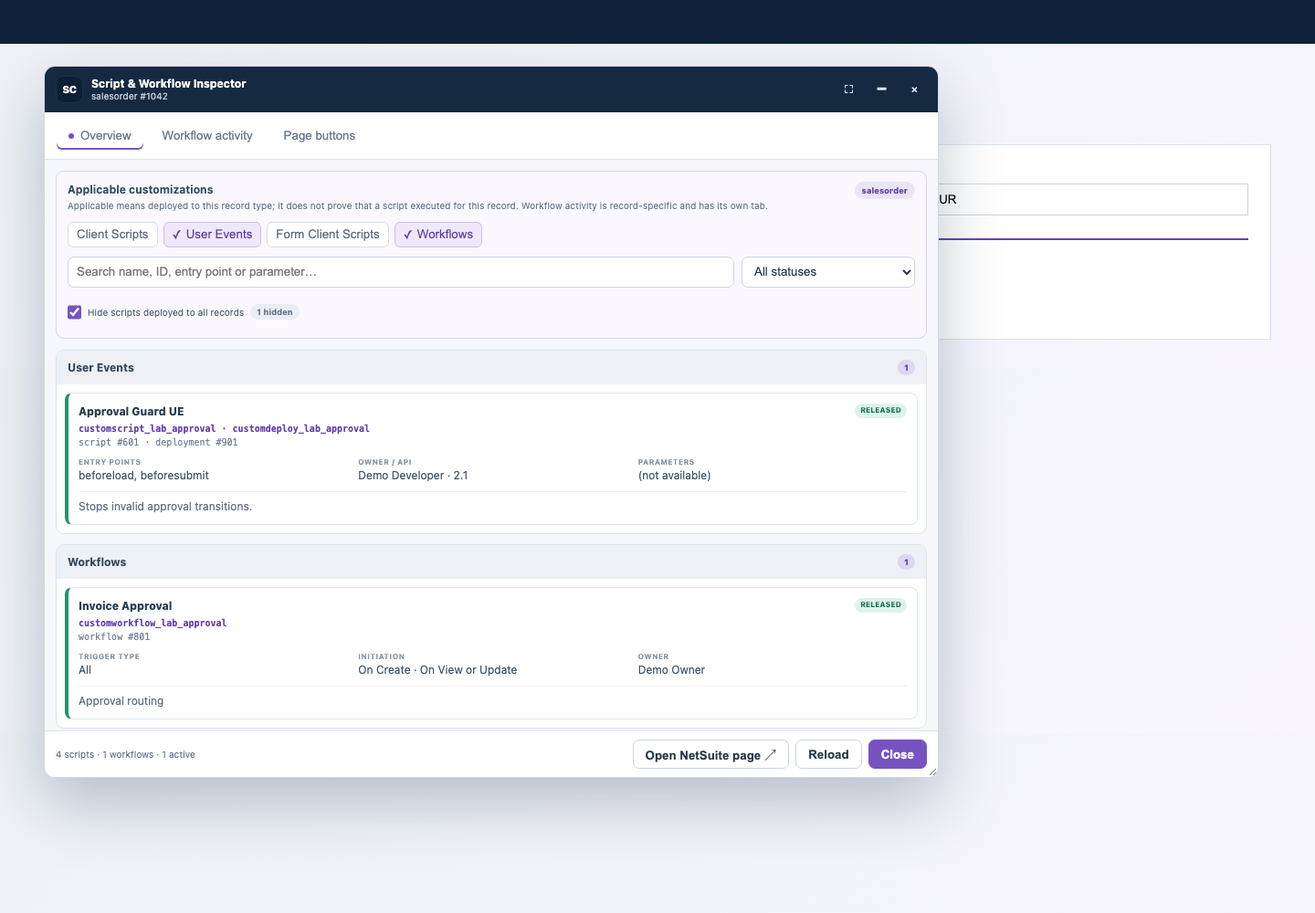
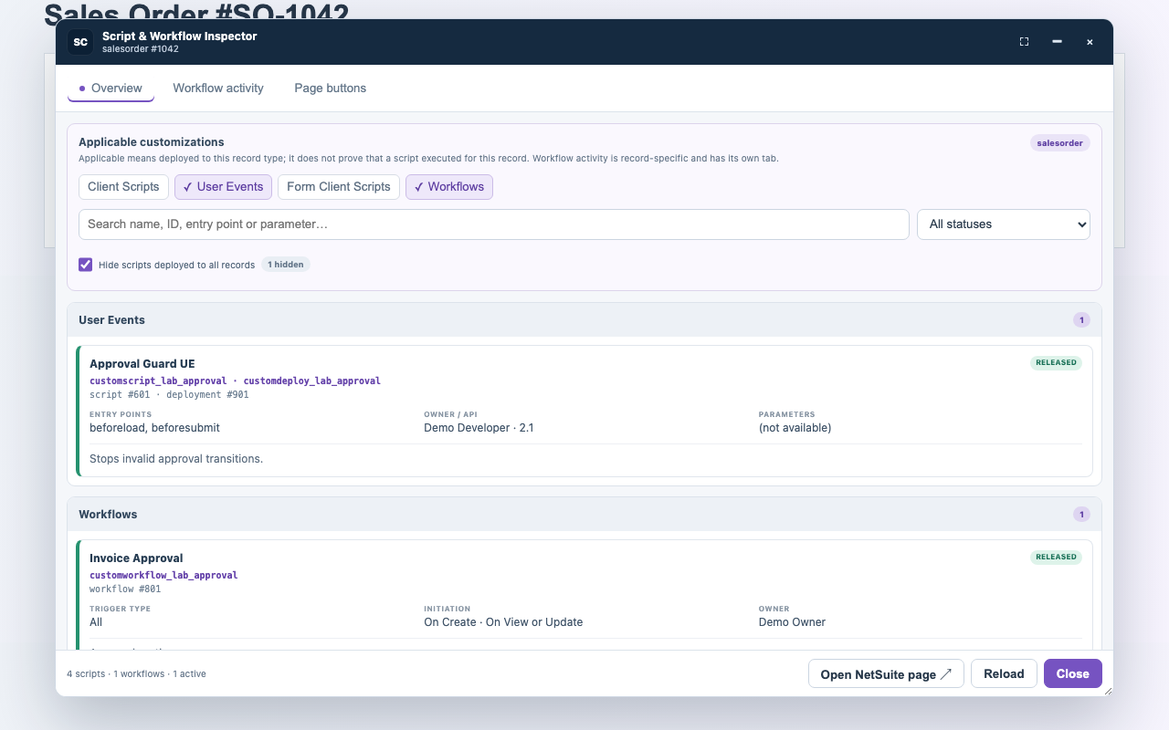
release: prepare website and Store assets for SuiteCraft 1.0.0

diff --git a/changelog.html b/changelog.html
@@ -3,7 +3,7 @@
 <head>
 	<meta charset="utf-8">
 	<meta name="viewport" content="width=device-width, initial-scale=1">
-	<meta name="description" content="Browse SuiteCraft release notes, current beta improvements and the complete version history.">
+	<meta name="description" content="Browse SuiteCraft release notes, current improvements and the complete version history.">
 	<meta name="theme-color" content="#081c35">
 	<meta property="og:type" content="website">
 	<meta property="og:title" content="Release history · SuiteCraft">
@@ -28,13 +28,14 @@
 			<a href="index.html#changelog">Changelog</a>
 			<a href="index.html#about">About</a>
 			<a href="privacy.html">Privacy <span aria-hidden="true">↗</span></a>
-			<a class="nav-cta" href="index.html#beta">Request beta access <span aria-hidden="true">→</span></a>
+			<a class="nav-cta" href="https://chromewebstore.google.com/detail/suitecraft-for-netsuite/hpcgajocaokahoibhmiofdjdjnnielka" target="_blank" rel="noopener noreferrer">Install extension <span aria-hidden="true">↗</span></a>
 		</nav>
 	</header>
 	<main class="history-main" id="main">
-		<div class="history-heading"><a class="history-back" href="index.html#changelog">← Back to SuiteCraft</a><p class="eyebrow">PRODUCT CHANGELOG · BETA CHANNEL</p><h1>Release history.</h1><p>New features, improvements and fixes in every SuiteCraft release. The current version is expanded below; choose an earlier version to see its details.</p></div>
+		<div class="history-heading"><a class="history-back" href="index.html#changelog">← Back to SuiteCraft</a><p class="eyebrow">PRODUCT CHANGELOG</p><h1>Release history.</h1><p>New features, improvements and fixes in every SuiteCraft release. Version 1.0.0 is prepared for Chrome Web Store submission. Its notes are expanded below; choose an earlier version to see its details.</p></div>
 		<div class="release-list">
-<details class="release-entry current-release" id="v0-4-1" open><summary><span class="release-summary-main"><span class="release-status">CURRENT RELEASE</span><span class="release-title">0.4.1</span><span class="release-teaser">SuiteCraft Search, clearer Change Plans and faster sync modes</span></span><span class="release-summary-side"><time datetime="2026-10-08">October 8, 2026</time><i aria-hidden="true"></i></span></summary><div class="release-body"><div class="release-columns"><section class="release-section new"><h3>New</h3><ul><li>SuiteCraft Search brings Menu, This page and Workspace together in All, with separate scopes and filters for Favorites, Catalogue and List values.</li><li>Menu results show matching destinations with their full navigation path and type. Current-page fields can be found by label or field ID, then located on the form or copied by ID. Empty All and Menu searches show no result tree.</li></ul></section><section class="release-section improved"><h3>Improved</h3><ul><li>Go to record remains directly beside the search input and carries the entered ID into the record finder. All shows up to three results per source, with Show all opening the relevant scope.</li><li>Change Plans have clearer summaries, progress and action menus, expandable descriptions and notes, and an Example item status for test cases and supporting references.</li><li>Synchronization offers Default, Quick, Quickest and experimental Turbo modes, with bounded parallel requests, retry backoff and session timing comparisons.</li></ul></section><section class="release-section fixed"><h3>Fixed</h3><ul><li>Saved Search links open the definition consistently from Quick find record, Favorites and Change Plans while preserving existing favorite and plan-item identities.</li><li>Parallel synchronization retains deterministic snapshot order and never publishes an incomplete list after failed requests, cancellation or an account or role change.</li></ul></section></div></div></details>
+<details class="release-entry current-release" id="v1-0-0" open><summary><span class="release-summary-main"><span class="release-status">PREPARED RELEASE</span><span class="release-title">1.0.0</span><span class="release-teaser">First official release, safer local data and more reliable synchronization</span></span><span class="release-summary-side"><time datetime="2026-10-15">October 15, 2026</time><i aria-hidden="true"></i></span></summary><div class="release-body"><div class="release-columns"><section class="release-section new"><h3>New</h3><ul><li>First official SuiteCraft release: record inspection, customization search, local snapshots, comparison and Change Plans in one read-only NetSuite toolkit.</li></ul></section><section class="release-section improved"><h3>Improved</h3><ul><li>English, Polish, Spanish and German interface text is more complete and consistent across the bundled tools.</li><li>JSON backups use compact files and include supported object refreshes. Optional storage details distinguish category snapshots from Custom Record field sets.</li></ul></section><section class="release-section fixed"><h3>Fixed</h3><ul><li>Concurrent edits to Change Plans and Favorites are coordinated, and full local storage now reports a clear error without deleting existing data.</li><li>Large Workspace backups export supported records with empty names or unresolved reference links, preserving their data instead of failing validation.</li><li>Custom Record field sets are grouped by their actual scope, preventing unrelated legacy sublist filters from inflating the current snapshot count.</li><li>Synchronization verifies supported list filters and coordinates cancellation and checkpoint recovery across Workspace tabs, retaining previously verified snapshots when a run fails.</li><li>SuiteCraft Search keeps its navigation button in place when NetSuite opens native global search results.</li><li>Local database connections recover more safely around extension updates and explain when a Workspace page must be reopened, without resetting stored data.</li></ul></section></div></div></details>
+<details class="release-entry previous-release" id="v0-4-1"><summary><span class="release-summary-main"><span class="release-status">EARLIER RELEASE</span><span class="release-title">0.4.1</span><span class="release-teaser">SuiteCraft Search, clearer Change Plans and faster sync modes</span></span><span class="release-summary-side"><time datetime="2026-10-08">October 8, 2026</time><i aria-hidden="true"></i></span></summary><div class="release-body"><div class="release-columns"><section class="release-section new"><h3>New</h3><ul><li>SuiteCraft Search brings Menu, This page and Workspace together in All, with separate scopes and filters for Favorites, Catalogue and List values.</li><li>Menu results show matching destinations with their full navigation path and type. Current-page fields can be found by label or field ID, then located on the form or copied by ID. Empty All and Menu searches show no result tree.</li></ul></section><section class="release-section improved"><h3>Improved</h3><ul><li>Go to record remains directly beside the search input and carries the entered ID into the record finder. All shows up to three results per source, with Show all opening the relevant scope.</li><li>Change Plans have clearer summaries, progress and action menus, expandable descriptions and notes, and an Example item status for test cases and supporting references.</li><li>Synchronization offers Default, Quick, Quickest and experimental Turbo modes, with bounded parallel requests, retry backoff and session timing comparisons.</li></ul></section><section class="release-section fixed"><h3>Fixed</h3><ul><li>Saved Search links open the definition consistently from Quick find record, Favorites and Change Plans while preserving existing favorite and plan-item identities.</li><li>Parallel synchronization retains deterministic snapshot order and never publishes an incomplete list after failed requests, cancellation or an account or role change.</li></ul></section></div></div></details>
 <details class="release-entry previous-release" id="v0-4-0"><summary><span class="release-summary-main"><span class="release-status">EARLIER RELEASE</span><span class="release-title">0.4.0</span><span class="release-teaser">Quick find record, account management and clearer Quick Access</span></span><span class="release-summary-side"><time datetime="2026-10-06">October 6, 2026</time><i aria-hidden="true"></i></span></summary><div class="release-body"><div class="release-columns"><section class="release-section new"><h3>New</h3><ul><li>Quick find record opens NetSuite records from the popup using a type and Internal ID, exact name or supported Script ID. Custom record entries support a numeric type ID or a synchronized type Script ID.</li><li>Manage accounts and roles in Workspace: rename local labels and remove downloaded data for a selected account or role. Account identities remain unchanged, and Favorites and Change Plans are retained.</li></ul></section><section class="release-section improved"><h3>Improved</h3><ul><li>Go to record sits beside Quick Access search and carries the entered ID into the record finder. Full catalogue results open in Workspace with the search text, object filter, account and role preserved.</li><li>Quick Access keeps empty result groups on one line, identifies Add to Favorites with a star and provides a compact refresh action for local results.</li><li>Standard Lists is a separate synchronization category, unselected by default. Download Subsidiaries, Locations, Departments, Classes and Currencies when you choose it.</li></ul></section><section class="release-section fixed"><h3>Fixed</h3><ul><li>Synchronization retries transient server failures on the failed page and retains previous snapshots if the download cannot finish. List progress messages show actual counts instead of unresolved placeholders.</li><li>Unavailable NetSuite list APIs now produce one actionable message. Older open tabs explain when a refresh is needed instead of silently skipping Standard Lists.</li><li>Dark mode keeps embedded NetSuite shortcuts and popups in their light appearance. Page button detection has a fallback for pages without the expected NetSuite loader.</li><li>Quick find record opened from a page shortcut can read the current NetSuite origin when Chrome does not expose the tab URL, avoiding the Invalid URL error.</li></ul></section></div></div></details>
 <details class="release-entry previous-release" id="v0-3-0"><summary><span class="release-summary-main"><span class="release-status">EARLIER RELEASE</span><span class="release-title">0.3.0</span><span class="release-teaser">Reference lists, filtered Quick Access and a refreshed popup</span></span><span class="release-summary-side"><time datetime="2026-09-30">September 30, 2026</time><i aria-hidden="true"></i></span></summary><div class="release-body"><div class="release-columns"><section class="release-section new"><h3>New</h3><ul><li>Synchronize Subsidiaries, Locations, Departments, Classes and Currencies with the main catalogue, and browse their values and Internal IDs in Lists.</li><li>Select Custom Lists from the catalogue or add custom records as reference lists using a Script ID or Internal ID, with name or a custom field as the label.</li><li>Search saved list values from the NetSuite navigation menu and extension popup, copy IDs and open records.</li></ul></section><section class="release-section improved"><h3>Improved</h3><ul><li>Quick Access separates Favorites, Catalogue and List values, with filters for object types and individual lists.</li><li>List synchronization includes search by name or ID, selected lists first, compact rows and editable configurations included in local backups.</li><li>Choose light or dark mode across SuiteCraft. Settings include expandable feature descriptions, screenshots and field help; feature switches change only through their toggle.</li></ul></section><section class="release-section fixed"><h3>Fixed</h3><ul><li>Corrected links for standard reference lists and custom record entries, including configurations that use only a Script ID.</li><li>Unavailable lists do not stop the remaining synchronization, and failed downloads retain the previous local copy.</li></ul></section></div></div></details>
 <details class="release-entry previous-release" id="v0-2-3">
@@ -85,7 +86,7 @@
 
 	<footer class="site-footer">
 		<div class="footer-brand"><img src="assets/suitecraft-mark.svg" alt=""><div><strong>SuiteCraft</strong><span>Toolkit for NetSuite</span></div></div>
-		<div class="footer-links"><a href="index.html#tour">Product tour</a><a href="index.html#features">Features</a><a href="index.html#changelog">Changelog</a><a href="index.html#about">About</a><a href="privacy.html">Privacy <span aria-hidden="true">↗</span></a><a href="index.html#beta">Beta</a><a href="https://buymeacoffee.com/damiandk" target="_blank" rel="noopener noreferrer">Support <span aria-hidden="true">↗</span></a><a href="https://tally.so/r/gDl0DO" target="_blank" rel="noopener noreferrer">Feedback <span aria-hidden="true">↗</span></a></div>
+		<div class="footer-links"><a href="index.html#tour">Product tour</a><a href="index.html#features">Features</a><a href="index.html#changelog">Changelog</a><a href="index.html#about">About</a><a href="privacy.html">Privacy <span aria-hidden="true">↗</span></a><a href="index.html#beta">Install</a><a href="https://buymeacoffee.com/damiandk" target="_blank" rel="noopener noreferrer">Support <span aria-hidden="true">↗</span></a><a href="https://tally.so/r/gDl0DO" target="_blank" rel="noopener noreferrer">Feedback <span aria-hidden="true">↗</span></a></div>
 		<p>© <span id="year">2026</span> Damian Krolikowski. SuiteCraft is an independent project and is not affiliated with Oracle or NetSuite.</p>
 	</footer>
 	<script src="assets/changelog.js"></script>

diff --git a/index.html b/index.html
@@ -29,7 +29,7 @@
 			<a href="#changelog">Changelog</a>
 			<a href="#about">About</a>
 			<a href="privacy.html">Privacy <span aria-hidden="true">↗</span></a>
-			<a class="nav-cta" href="#beta">Request beta access <span aria-hidden="true">→</span></a>
+			<a class="nav-cta" href="https://chromewebstore.google.com/detail/suitecraft-for-netsuite/hpcgajocaokahoibhmiofdjdjnnielka" target="_blank" rel="noopener noreferrer">Install extension <span aria-hidden="true">↗</span></a>
 		</nav>
 	</header>
 
@@ -40,11 +40,11 @@
 				<h1>Less clicking.<br><em>More clarity.</em></h1>
 				<p class="hero-lead">SuiteCraft brings record inspection, customization discovery, local snapshots and comparison tools into one focused browser workspace.</p>
 				<div class="hero-actions">
-					<a class="button primary" href="#beta">Join the beta <span aria-hidden="true">→</span></a>
+					<a class="button primary" href="https://chromewebstore.google.com/detail/suitecraft-for-netsuite/hpcgajocaokahoibhmiofdjdjnnielka" target="_blank" rel="noopener noreferrer">Install from Chrome Web Store <span aria-hidden="true">↗</span></a>
 					<a class="button secondary" href="#tour">See SuiteCraft in action</a>
 				</div>
 				<p class="compatibility"><span aria-hidden="true">◆</span> Designed for Chrome and Brave · Runs locally in your browser</p>
-				<a class="release-chip" href="#changelog">Latest beta · 0.4.1 <span aria-hidden="true">→</span></a>
+				<a class="release-chip" href="#changelog">1.0.0 · Coming soon <span aria-hidden="true">→</span></a>
 			</div>
 			<div class="hero-visual" aria-label="SuiteCraft interface preview">
 				<div class="glow"></div>
@@ -144,33 +144,33 @@
 		<section class="section changelog" id="changelog" aria-labelledby="release-notes-heading">
 			<article class="release-card">
 				<header class="release-card-heading">
-					<div><p class="eyebrow">WHAT’S NEW</p><h2 id="release-notes-heading">Release notes</h2><p>SuiteCraft Search, clearer Change Plans and faster sync modes.</p></div>
-					<div class="release-current-version"><strong>SuiteCraft 0.4.1</strong><span>Current release · Beta channel</span></div>
+					<div><p class="eyebrow">WHAT’S NEW</p><h2 id="release-notes-heading">Release notes</h2><p>First official release, safer local data and more reliable synchronization.</p></div>
+					<div class="release-current-version"><strong>SuiteCraft 1.0.0</strong><span>Prepared release · Store submission pending</span></div>
 				</header>
-				<p class="release-card-date">Released <time datetime="2026-10-08">October 8, 2026</time></p>
-				<div class="release-body"><div class="release-columns"><section class="release-section new"><h3>New</h3><ul><li>SuiteCraft Search brings Menu, This page and Workspace together in All, with separate scopes and filters for Favorites, Catalogue and List values.</li><li>Menu results show matching destinations with their full navigation path and type. Current-page fields can be found by label or field ID, then located on the form or copied by ID. Empty All and Menu searches show no result tree.</li></ul></section><section class="release-section improved"><h3>Improved</h3><ul><li>Go to record remains directly beside the search input and carries the entered ID into the record finder. All shows up to three results per source, with Show all opening the relevant scope.</li><li>Change Plans have clearer summaries, progress and action menus, expandable descriptions and notes, and an Example item status for test cases and supporting references.</li><li>Synchronization offers Default, Quick, Quickest and experimental Turbo modes, with bounded parallel requests, retry backoff and session timing comparisons.</li></ul></section><section class="release-section fixed"><h3>Fixed</h3><ul><li>Saved Search links open the definition consistently from Quick find record, Favorites and Change Plans while preserving existing favorite and plan-item identities.</li><li>Parallel synchronization retains deterministic snapshot order and never publishes an incomplete list after failed requests, cancellation or an account or role change.</li></ul></section></div></div>
+				<p class="release-card-date">Prepared <time datetime="2026-10-15">October 15, 2026</time></p>
+				<div class="release-body"><div class="release-columns"><section class="release-section new"><h3>New</h3><ul><li>First official SuiteCraft release: record inspection, customization search, local snapshots, comparison and Change Plans in one read-only NetSuite toolkit.</li></ul></section><section class="release-section improved"><h3>Improved</h3><ul><li>English, Polish, Spanish and German interface text is more complete and consistent across the bundled tools.</li><li>JSON backups use compact files and include supported object refreshes. Optional storage details distinguish category snapshots from Custom Record field sets.</li></ul></section><section class="release-section fixed"><h3>Fixed</h3><ul><li>Concurrent edits to Change Plans and Favorites are coordinated, and full local storage now reports a clear error without deleting existing data.</li><li>Large Workspace backups export supported records with empty names or unresolved reference links, preserving their data instead of failing validation.</li><li>Custom Record field sets are grouped by their actual scope, preventing unrelated legacy sublist filters from inflating the current snapshot count.</li><li>Synchronization verifies supported list filters and coordinates cancellation and checkpoint recovery across Workspace tabs, retaining previously verified snapshots when a run fails.</li><li>SuiteCraft Search keeps its navigation button in place when NetSuite opens native global search results.</li><li>Local database connections recover more safely around extension updates and explain when a Workspace page must be reopened, without resetting stored data.</li></ul></section></div></div>
 				<div class="release-history-link"><div><h3>Looking for an older release?</h3><p>Browse all versions and their detailed release notes.</p></div><a class="button primary" href="changelog.html">View full release history <span aria-hidden="true">→</span></a></div>
 			</article>
 		</section>
 
 		<section class="section beta" id="beta">
 			<div class="beta-card">
-				<div><p class="eyebrow">PRIVATE BETA</p><h2>Help shape the first release.</h2><p>SuiteCraft is under active development and has been submitted to the Chrome Web Store for review. Early access remains limited to a small testing group.</p></div>
-				<div class="beta-action"><span class="status-pill"><i></i> Store review in progress</span><a class="button primary" href="https://tally.so/r/gDl0DO" target="_blank" rel="noopener noreferrer">Request beta access <span aria-hidden="true">↗</span></a><small>Approved testers will receive installation details when the beta is available.</small></div>
+				<div><p class="eyebrow">CHROME WEB STORE</p><h2>Try SuiteCraft in your NetSuite workspace.</h2><p>SuiteCraft is available through its Chrome Web Store link. Install the extension and open a NetSuite page where you are already signed in.</p></div>
+				<div class="beta-action"><span class="status-pill"><i></i> Available by direct link</span><a class="button primary" href="https://chromewebstore.google.com/detail/suitecraft-for-netsuite/hpcgajocaokahoibhmiofdjdjnnielka" target="_blank" rel="noopener noreferrer">Install from Chrome Web Store <span aria-hidden="true">↗</span></a><small>Requires access to a NetSuite account. Have a question? Use the contact form below.</small></div>
 			</div>
 		</section>
 
 		<section class="section about" id="about">
 			<div class="author-photo"><img src="assets/damian-krolikowski.jpg" alt="Damian Krolikowski" width="800" height="800"></div>
-			<div><p class="eyebrow">INDEPENDENTLY BUILT</p><h2>Hi, I’m Damian.</h2><p>I built SuiteCraft around the small frustrations that add up during everyday NetSuite work. My goal is to create focused tools that fit naturally into your workflow and stay out of the way until you need them.</p><p>SuiteCraft is an independent project, developed and maintained by Damian Krolikowski.</p></div>
-			<aside><span>Enjoying SuiteCraft?</span><strong>Support continued development.</strong><a href="https://buymeacoffee.com/damiandk" target="_blank" rel="noopener noreferrer">☕ Buy me a coffee <span aria-hidden="true">↗</span></a></aside>
+			<div><p class="eyebrow">INDEPENDENTLY BUILT</p><h2>Hi, I’m Damian.</h2><p>I’m Damian Krolikowski, a freelance NetSuite technical consultant and developer, and the creator of SuiteCraft. I help teams with NetSuite development, customizations and technical troubleshooting.</p><p>SuiteCraft grew out of the small frustrations that add up during everyday NetSuite work. Need help with a NetSuite project? Get in touch to discuss the scope and how I can help.</p><a class="button secondary" href="https://tally.so/r/gDl0DO" target="_blank" rel="noopener noreferrer">Discuss a NetSuite project <span aria-hidden="true">↗</span></a></div>
+			<aside><span>Enjoying SuiteCraft?</span><strong>Support continued development.</strong><p>Coffee contributions are optional support for SuiteCraft. Paid consulting and development work are agreed separately.</p><a href="https://buymeacoffee.com/damiandk" target="_blank" rel="noopener noreferrer">☕ Buy me a coffee <span aria-hidden="true">↗</span></a></aside>
 		</section>
 	</main>
 	<a class="coffee-float" href="https://buymeacoffee.com/damiandk" target="_blank" rel="noopener noreferrer" aria-label="Buy me a coffee" title="Buy me a coffee"><svg viewBox="0 0 24 24" fill="none" stroke="currentColor" stroke-width="1.8" stroke-linecap="round" stroke-linejoin="round" aria-hidden="true"><path d="M5 8h12v7a5 5 0 0 1-5 5h-2a5 5 0 0 1-5-5V8Z"/><path d="M17 10h1a3 3 0 0 1 0 6h-1M7 4c-1.5 1.2 1.5 1.8 0 3M12 4c-1.5 1.2 1.5 1.8 0 3"/></svg><span>Buy me a coffee</span></a>
 
 	<footer class="site-footer">
 		<div class="footer-brand"><img src="assets/suitecraft-mark.svg" alt=""><div><strong>SuiteCraft</strong><span>Toolkit for NetSuite</span></div></div>
-		<div class="footer-links"><a href="#tour">Product tour</a><a href="#features">Features</a><a href="#changelog">Changelog</a><a href="#about">About</a><a href="privacy.html">Privacy <span aria-hidden="true">↗</span></a><a href="#beta">Beta</a><a href="https://buymeacoffee.com/damiandk" target="_blank" rel="noopener noreferrer">Support <span aria-hidden="true">↗</span></a><a href="https://tally.so/r/gDl0DO" target="_blank" rel="noopener noreferrer">Feedback <span aria-hidden="true">↗</span></a></div>
+		<div class="footer-links"><a href="#tour">Product tour</a><a href="#features">Features</a><a href="#changelog">Changelog</a><a href="#about">About</a><a href="privacy.html">Privacy <span aria-hidden="true">↗</span></a><a href="#beta">Install</a><a href="https://buymeacoffee.com/damiandk" target="_blank" rel="noopener noreferrer">Support <span aria-hidden="true">↗</span></a><a href="https://tally.so/r/gDl0DO" target="_blank" rel="noopener noreferrer">Feedback <span aria-hidden="true">↗</span></a></div>
 		<p>© <span id="year">2026</span> Damian Krolikowski. SuiteCraft is an independent project and is not affiliated with Oracle or NetSuite.</p>
 	</footer>
 	<script src="assets/site.js"></script>

diff --git a/README.md b/README.md
@@ -10,7 +10,7 @@ This repository is deliberately self-contained. It contains the website, synthet
 
 The same real-UI screenshots are embedded in the `#tour` section of `index.html`. The standalone tour is retained as an optional full-screen view and a direct link for testers, rather than the landing page's primary navigation path.
 
-The landing page's `#changelog` shows only the current release, with New / Improved / Fixed sections and a link to `changelog.html`. The dedicated history page contains every published version, newest first: the current release is expanded and earlier releases are collapsed. Direct links such as `changelog.html#v0-4-1` open the selected version. All current entries belong to the beta channel; use `Current release` and `Earlier release` consistently rather than mixing beta and release labels.
+The landing page's `#changelog` shows only the current release, with New / Improved / Fixed sections and a link to `changelog.html`. The dedicated history page contains every published version, newest first: the current release is expanded and earlier releases are collapsed. Direct links such as `changelog.html#v0-4-1` open the selected version. Version 1.0.0 is the first stable release; earlier entries belong to the beta channel; use `Current release` and `Earlier release` consistently rather than mixing beta and release labels.
 
 For each approved release, update the latest-version chip and current notes in `index.html`, add the same release to `changelog.html`, and mark the previous history entry as earlier and collapsed. Keep the version, date and notes aligned with the extension's bundled `modules/shared/releases.js`. Preserve historical entries; small implementation fixes should be grouped under the relevant release rather than published as raw commit history.
 
@@ -32,7 +32,9 @@ The site can be published directly from the repository root:
 2. Choose **Pages** → **Deploy from a branch**.
 3. Select the default branch and the `/ (root)` directory.
 
-Before a public launch, replace the beta placeholder with the verified release destination and add finalized Privacy Policy, Terms and release notes pages. Packaged beta builds should be published through GitHub Releases rather than committed to the website tree.
+The install buttons target the existing Chrome Web Store item `hpcgajocaokahoibhmiofdjdjnnielka`. Damian confirmed it is Published — Unlisted on 15 October 2026, so the website says available by direct link. Keep this wording aligned with the actual Dashboard state; do not claim a review is in progress or public discovery is enabled without confirmation. The historical `#beta` anchor is retained for existing links.
+
+The About section presents Damian as a freelance NetSuite technical consultant and developer, with a project-contact link. Optional coffee contributions are separate from paid consulting work. Site changes and privacy clarifications must be deployed before the next Store submission. Extension packages remain outside this website repository.
 
 ## Data safety
 
@@ -43,3 +45,11 @@ Never add extension source, private build configuration, signing keys, source ma
 ## 0.3.0 screenshots
 
 The landing page includes fresh captures of the real extension popup, navigation Quick Access, reference lists, list synchronization and Settings. Captures use fictional Northstar data in the extension repository's local lab. They are product previews, not evidence of live NetSuite compatibility testing.
+
+## Publication screenshots — 15 October 2026
+
+Record Explorer, Inspector, Catalogue, Change Plans, Compare and Synchronization use fresh captures of the current interface with synthetic Lab data. See `assets/screenshots/README.md` for provenance. They do not replace live NetSuite release checks.
+
+## 1.0.0 release preparation
+
+Damian approved 1.0.0 and a Store build on 15 October 2026. Current notes and the version chip are updated locally; 0.4.1 remains preserved in release history. This does not confirm Store publication. Until Store publication is confirmed, the chip says Coming soon and the notes are marked Prepared release / Store submission pending. After publication, change those labels to Latest release / Current release and the date label to Released.

diff --git a/assets/screenshots/README.md b/assets/screenshots/README.md
@@ -1,9 +1,11 @@
 # Product screenshots
 
-Screens show the real SuiteCraft interface. Most are captured through the permanent SuiteCraft Lab scenarios; the 0.4.1 popup, navigation search, Change Plans and synchronization images use supplied captures with identifying text replaced using the built-in image-generation editor. `demo.html?step=N` presents these images as a deterministic product tour. All visible account, object ID and value examples are fictional and contain no client information.
+Screens show the real SuiteCraft interface. The Catalogue, Record Explorer, Compare, Synchronization, Script & Workflow Inspector and Change Plans frames were refreshed on 15 October 2026 from the current UI using the permanent SuiteCraft Lab and fictional Northstar data, with no AI editing. Other Lab captures remain, while the curated 0.4.1 popup and navigation search frames use supplied captures with identifying text replaced using the built-in image-generation editor. `demo.html?step=N` presents these images as a deterministic product tour. All visible account, object ID and value examples are fictional and contain no client information.
 
 Workspace images use a landscape canvas; popup and navigation search images retain their compact proportions and are displayed in full. Run `npm run marketing:screenshots` from the extension repository to capture the lab scenes. The command opens isolated, headless Chrome or Brave sessions and writes the current product scenes directly into this directory; review its output before replacing manually curated screenshots.
 
 Refresh only the affected images after a UI change. Lab captures hide product version labels and test-environment badges; the curated 0.4.1 captures show the matching current version. Raw supplied captures containing private identifiers are not stored in this repository. Editing prompts are documented in `source/anonymization-prompts.md`.
 
 Do not replace these files with captures from a client account unless all customer data and account identifiers have been removed and the result has been reviewed before publication.
+
+The six refreshed files are direct copies of the extension repository’s reviewed `store-listing/public-assets/screenshots/` captures (1280×800). Generate those with `node scripts/capture-marketing-screenshots.mjs --store`, inspect the outputs, then copy only the affected files. Store mode preserves this website directory. The default command still replaces the full website set; do not run it blindly over curated images.
